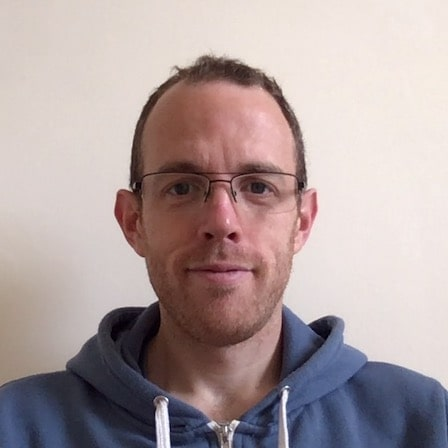
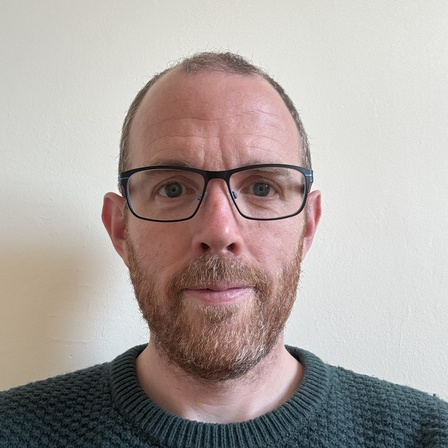
Update profile image and about me page

diff --git a/content/about.md b/content/about.md
@@ -3,33 +3,40 @@ title: "About Me"
 date: 2018-12-21T20:20:00Z
 draft: false
 ---
-Over 26 years of experience in the IT industry, covering a broad range of roles:
+I'm a software engineer with over 30 years of experience in the IT industry,
+covering a broad range of roles:
 
-* Systems & Storage Manager / Architect - designing, building, maintaining and managing both physical and virtual infrastructure
-* Field Support Engineer - installation and upgrading virtualised storage and tape library solutions across northern EMEA
-* Software Engineer - developing iOS apps, and their backends, since iPhoneOS 3.1.3 in 2010!
-
-I am completely self-taught.
+* Systems & Storage Manager / Architect - designing, building, maintaining and
+  managing both physical and virtual infrastructure
+* Field Support Engineer - installation and upgrading virtualised storage and
+  tape library solutions across northern EMEA
+* Software Engineer - developing iOS apps, and their backends, since iPhoneOS
+  3.1.3 in 2010!
 
 ## Current Status
-* I work at [Marks and Spencer, plc](https://en.wikipedia.org/wiki/Marks_%26_Spencer) as a Software Engineering Manager.
-* My family and I our based in Farnham, UK.
-* Actively leveling up my [Rust](https://rust-lang.org) knowledge.
 
-## Technologies / Languages
-A brief, consolidated, list of the technologies and languages I have experience with:
+I currently work as a Principal Software Engineer at Marks and Spencer. My
+family and I are based in Farnham, UK, where I'm actively leveling up my
+[Rust](https://rust-lang.org) knowledge.
+
+## Technical Experience
+
+A brief, consolidated list of the technologies and languages I have experience with:
 
 * Rust - APIs, GUI apps, games and command line utilities
 * Cloudflare's product stack - including workers for edge based computing
-* Building Cocoa Touch (iOS SDK) apps and frameworks using Objective-C and Swift, along with distribution via the App Store and/or Test Flight/HockeyApp
-* Containerisation technologies - Docker, Rancher and Kubernates
+* Building Cocoa Touch (iOS SDK) apps and frameworks using Objective-C and
+  Swift, along with distribution via the App Store and/or Test Flight/HockeyApp
+* Containerisation technologies - Docker, Rancher and Kubernetes
 * Various Linux distributions - mainly Arch, Ubuntu, Amazon Linux and RancherOS
 * DevOps, CI & CD - GitHub, GitLab, BitBucket, Jenkins and Travis
 * Cloud Computing / Platforms - Cloudflare, AWS and Linode
 * Other - nginx, TLS, Let's Encrypt, Terraform
 
 ## Other Interests
-I found a real passion for running a number of years ago. Since then have completed numerous 5/10k's, half, full and ultra marathons. More recently I have taken up swimming and cycling as I wanted to challenge myself with triathlons. I find the exercise and being outdoors brings balance to my day job 😀
 
-## Self Development
-I have always had an enthusiasm for learning and pushing myself further. As such I am currently focused on [Rust](https://rust-lang.org).
+I found a real passion for running a number of years ago. Since then I have
+completed numerous 5/10Ks, half marathons, full marathons, and ultra marathons.
+More recently I have taken up swimming and cycling as I wanted to challenge
+myself with triathlons. I find the exercise and being outdoors brings balance
+to my day job 😀
